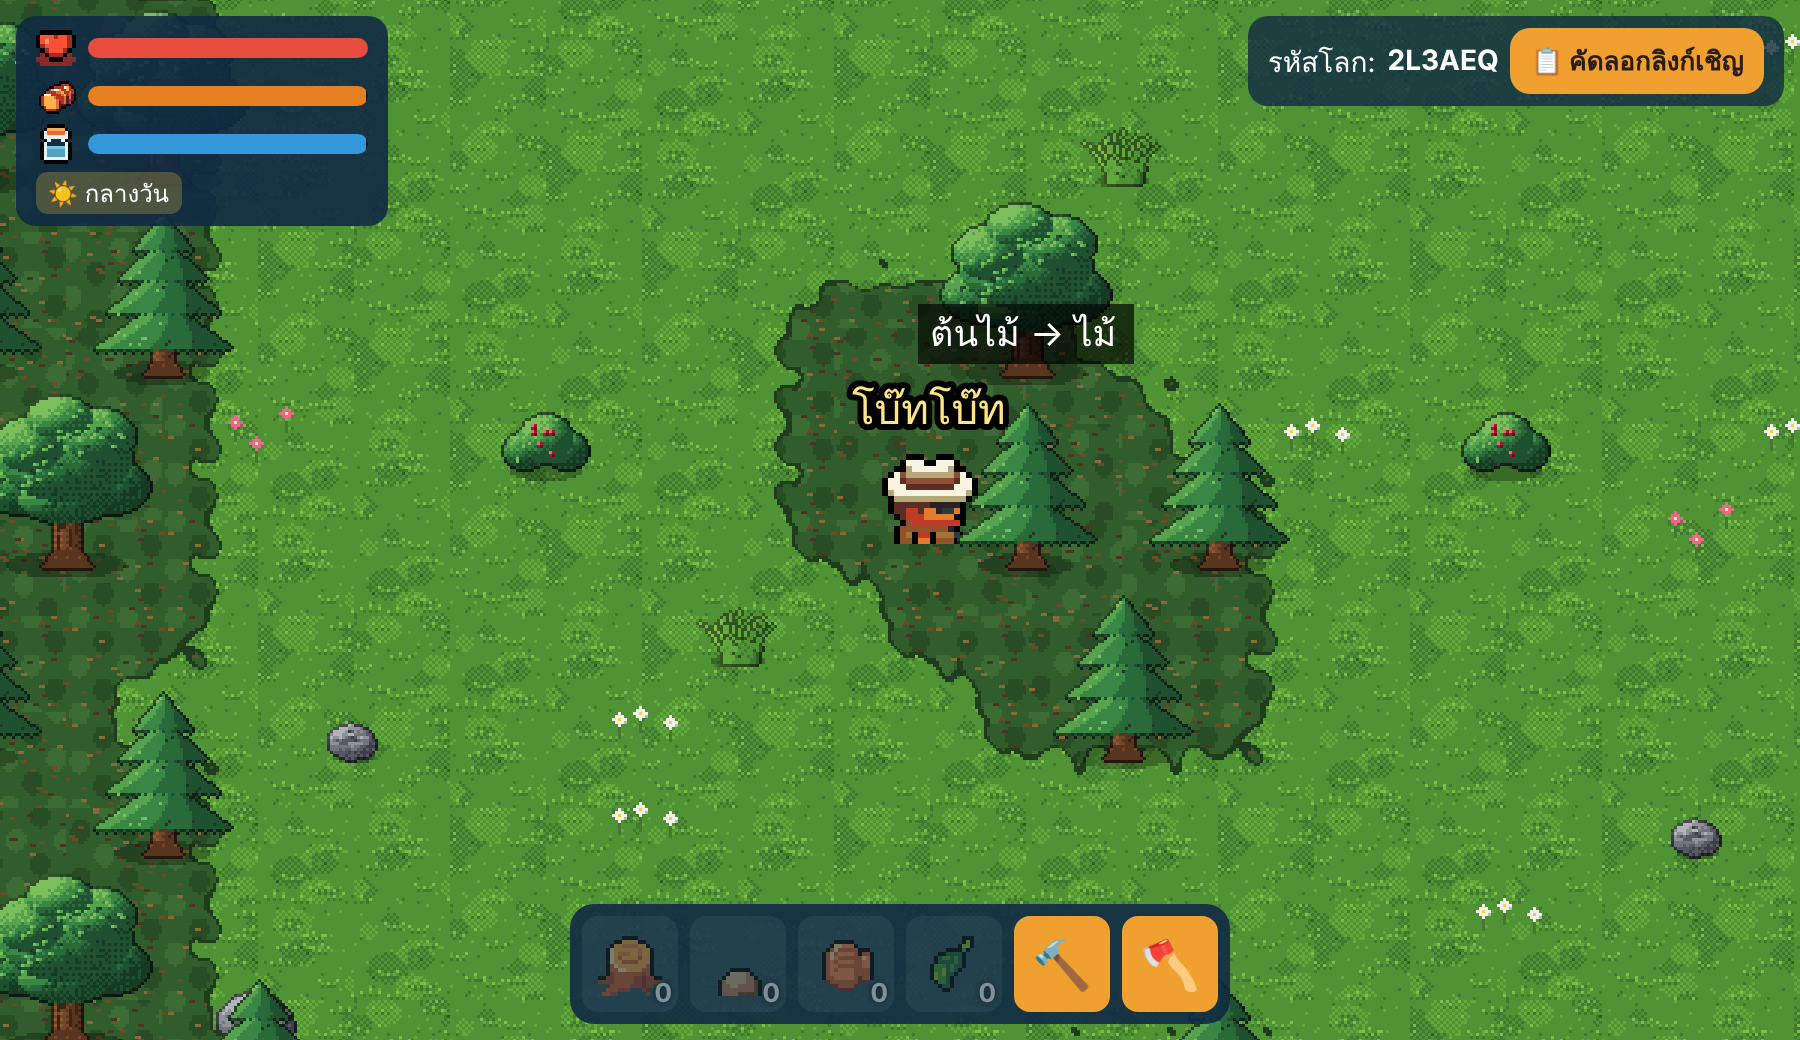
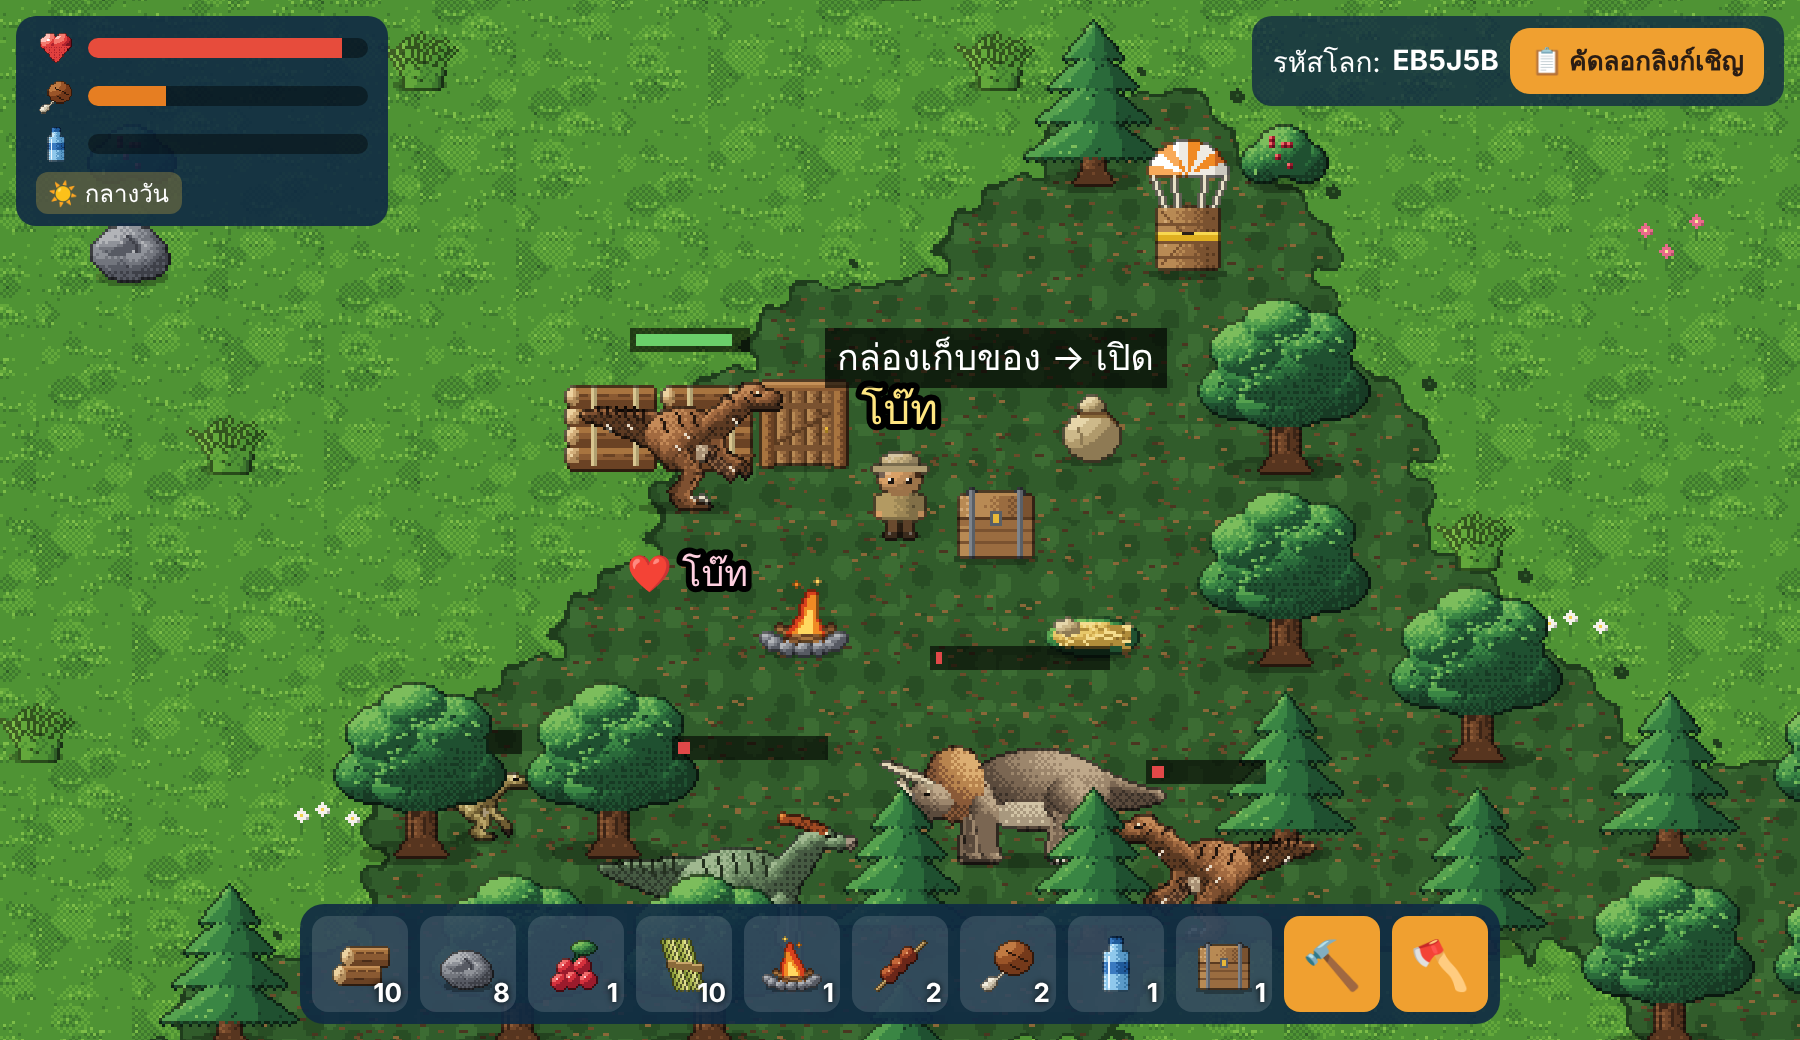
docs: M8 HD art — README screenshots and handoff summary
Claude-Session: https://claude.ai/code/session_017gvUHaCsLYKBeAsGtvm3V9

diff --git a/docs/primal-isle.md b/docs/primal-isle.md
@@ -20,7 +20,7 @@
 - Netcode: fixed timestep 20Hz + `defineInput` · client ทำนายตัวเอง (Predict) · ไดโนใช้ lerp · `stepPlayer` ต้องให้ผลเหมือนเดิมทุกบิต (มีเทสต์)
 - บันทึกโลก: JSON ต่อโลก `server/data/worlds/<รหัส>.json` (`DATA_DIR`) ผ่าน `WorldStore` · บันทึกทุก 30 วิ/ตอนห้องปิด/ตอน Ctrl+C · บันทึกต่อคิว + ตรวจโครงไฟล์ · **version 3** (อ่าน 1–2 ได้)
 - รหัสโลกถาวร 6 ตัว · token ผู้เล่นใน localStorage `primal-isle:token` · **token ห้ามอยู่ใน state ที่ซิงก์** (เจ้าของสิ่งก่อสร้าง/ไดโนเก็บฝั่งเซิร์ฟเวอร์) · กด F5 รับตัวละครเดิมคืนทันที
-- ภาพ: Pixel-boy CC0 + ภาพวาดเองด้วยตัวอักษรในโค้ด (`client/src/art/`: กองไฟ, สิ่งก่อสร้าง, ไดโน 4 ชนิด, เนื้อดิบ)
+- ภาพ: วาดด้วยโค้ดทั้งหมดใน `client/src/art/hd/` (ไม่มีไฟล์ภาพ) — เพิ่มของใหม่ = เขียนฟังก์ชันวาด + เทสต์ขนาด/ขอบ
 - ขึ้นออนไลน์: หน้าเว็บ → GitHub Pages (`.github/workflows/pages.yml`, ถูกข้ามจนกว่าจะตั้งตัวแปร `SERVER_URL` = `wss://...`) · เซิร์ฟเวอร์ → `Dockerfile` (Oracle) หรือ `render.yaml` (Render, region singapore, deploy เฉพาะเมื่อโค้ดเซิร์ฟเวอร์เปลี่ยน) · คู่มือไทย `docs/DEPLOY.md`
 
 ## สถานะ
@@ -34,15 +34,15 @@
     - server: `state.clock` · `crateSystem.ts` (ตกทุก 4 นาที สูงสุด 3 หาย 10 นาที, ไม่ตกทับสิ่งก่อสร้าง/ของตกแต่งทุกชนิด, `open {key}`) · กล่องเก็บของใน `buildingSystem.ts` (`chest {key,item,n,dir}`, `state.chests`, 12 ชนิด, รื้อไม่ได้ถ้ามีของ) · รื้อไม่ได้ถ้าของคืนจะเกิน 99 · ไฟล์บันทึก v3
     - client: ความมืด (`render/night.ts` + กติกาใน `render/dayNight.ts`) + แสงกองไฟ ADD · ชิป ☀/🌅/🌙 ใน `ui/stats.ts` · กล่องเสบียง `render/crates.ts` (ร่มแกว่ง, แจ้งเมื่อตกใหม่) · ลูกศรขอบจอ `ui/crateArrow.ts` · ข้อความ "📦 ได้ …" (`ui/loot.ts`) · หน้าต่างกล่อง `ui/chestPanel.ts` · `pickTarget(px, py, {…})` รับ object · ป้าย ❤ ใต้เท้าไดโน (`render/labelLayout.ts`) · 🪓 ข้ามกล่องที่มีของ (`demolishTarget`) · "โลกเต็มแล้ว … หรือกำลังเปิดอยู่"
 - ✅ ป้ายชื่อเป้า ✋ (merge แล้ว 2026-11-24): ป้ายเหนือสิ่งที่ปุ่ม ✋ จะทำ เช่น "ต้นไม้ → ไม้" (`client/src/ui/targetLabel.ts` + `render/targetLabel.ts`, ใช้ `WorldScene.surroundings` ชุดเดียวกับปุ่ม) · ยกป้ายขึ้นเหนือชื่อตัวเองถ้าเป้าติดตัว
-- 🚧 **ขั้นที่ 8 ภาพ 32px — branch `m8-hd-art`** (โบ๊ทเลือก "วาดใหม่ทั้งเกม 2 เท่า")
-  - ออกแบบ: `docs/superpowers/specs/2026-11-24-m8-hd-art-design.md` (ลำดับงาน 0–8, การแสดงผลตาม DPR)
-  - ✅ งาน 0: ชุดเครื่องมือวาด `client/src/art/hd/canvas.ts` (ramp + แสงซ้ายบน + dither + outline) · ตัวอย่าง `hd/nature.ts` (หญ้า ต้นไม้ 64×64 หิน พุ่มไม้) `hd/dinos.ts` (แร็พเตอร์ 48×36) · ภาพเทียบ `docs/images/m8-sample.png`
-  - ✅ โบ๊ทชอบโทนภาพใหม่ · ขอไดโนสรีระตามจริง + เพิ่มชนิด → วาดครบ 12 ชนิดจาก "โครงไดโน" `hd/dinoRig.ts` + ข้อมูล `hd/species.ts` (ภาพรวม `docs/images/m8-dinos.png`, ตารางชนิด/หลักฐานในเอกสารออกแบบ)
-    - ใหม่ 8: แกลลิไมมัส แพคิ สเตโก แองคิโล ไดโลโฟ สไปโน ทีเร็กซ์ แบรคิโอ · raptor → ยูทาห์แร็พเตอร์มีขน · duckbill → พาราซอโรโลฟัส (id เดิม)
-  - ⏭ งาน 1: ระบบแสดงผล 32px + DPR → แล้วพื้น/ต้นไม้/ตัวละคร… · กติกาไดโนชนิดใหม่ = ขั้นที่ 9
-  - วิธีทำภาพเทียบ: สคริปต์ tsx + pngjs นอก repo (วาดฉากเดียวกัน ซ้ายภาพเก่า×6 ขวาภาพใหม่×3)
+- ✅ **ขั้นที่ 8 ภาพ 32px** (branch `m8-hd-art` → merge) — โบ๊ทเลือก "วาดใหม่ทั้งเกม 2 เท่า" + ไดโนสรีระตามจริง · ไม่มีไฟล์ภาพแล้ว (Pixel-boy ลบออก)
+  - ออกแบบ: `docs/superpowers/specs/2026-11-24-m8-hd-art-design.md` (มีตารางไดโน 12 ชนิด + หลักฐานที่ใช้)
+  - แสดงผล: `client/src/display.ts` — canvas = พิกเซลจริง (Phaser scale zoom 1/dpr), ซูมกล้องเป็นจำนวนเต็มให้ 1 texel = จำนวนพิกเซลเต็ม (DPR 2 → zoom 6 เท่าเดิม), ภาพ HD วาดที่ `HD_SCALE` 0.5 · DOM ทับโลกใช้ `screenPx` · จอ DPR 1 เห็นใกล้ขึ้นนิด (1 ช่อง 64px)
+  - ภาพ (`client/src/art/hd/`): `canvas.ts` เครื่องมือ (ramp + แสงซ้ายบน + dither + outline) · `ground.ts` พื้นแบบ dual grid (4 ชั้น × 16 รูปขอบ ขอบต่อกันสนิท — มีเทสต์) · `nature.ts` ต้นไม้ 2 แบบ ตอ หิน พุ่มไม้ กอหญ้า · `dinoRig.ts` + `species.ts` ไดโน 12 ชนิด · `survivor.ts` คน 8 แบบ × 4 ทิศ × 4 ท่า · `built.ts` สิ่งก่อสร้าง กองไฟ ถุง ลัง · `icons.ts` ไอคอน 18 + หัวใจ
+  - `art/textures.ts` = ชื่อ texture + ตารางไอคอน (แทน ninjaAtlas) · BootScene วาดทุกอย่างตอนเริ่ม ~200ms (≈0.8 วิ ที่ CPU ช้า 4 เท่า)
+  - ไดโนในเกมยังเป็น 4 ชนิดเดิม (raptor → ยูทาห์แร็พเตอร์, duckbill → พาราซอโรโลฟัส ชื่อในเกมเปลี่ยน id เดิม) · อีก 8 ชนิดวาดแล้ว รอขั้นที่ 9
+  - วิธีดูภาพตัวอย่างนอกเกม: สคริปต์ tsx + pngjs (นอก repo) วาด PixelCanvas ลง PNG
 - ขึ้นออนไลน์แล้ว ✅ เซิร์ฟเวอร์ Render `wss://primal-isle-st4g.onrender.com` (ตัวแปร `SERVER_URL` ใน GitHub) · หน้าเว็บ https://bananazz27.github.io/primal-isle/ (deploy เองเมื่อ push main) · push ที่แตะ `server/` `shared/` = Render รีสตาร์ท โลกที่เปิดอยู่หาย
-- เทสต์ล่าสุด: shared 106 · server 91 · client 146 (+19 บน branch m8-hd-art)
+- เทสต์ล่าสุด: shared 106 · server 91 · client 161
 
 ## การตัดสินใจระหว่างทำขั้นที่ 7 (rulings)
 - โลกใหม่เริ่มตอนเช้า (`dayStartSec` 60)
@@ -75,7 +75,7 @@
 - ไฟล์ JS ของ client ~1.5 MB · ยังไม่ได้วัด FPS บนมือถือจริง · กด Enter ในเมนูยังไม่ทำงาน · เครื่องมือยังไม่มีความทนทาน
 
 ## ขั้นต่อไป
-1. ขั้นที่ 8 ภาพ 32px ตามลำดับในเอกสารออกแบบ (งาน 1 ระบบแสดงผล) → ขั้นที่ 9 กติกาไดโน 8 ชนิดใหม่
+1. ขั้นที่ 9: ใส่ไดโน 8 ชนิดใหม่ลงเกม (balance.json + เกิดใกล้น้ำ/เป็นฝูง + ขนาดกล่องชนตัวใหญ่ — บทบาทที่เสนออยู่ในเอกสารออกแบบขั้นที่ 8)
 2. ถ้าอยากต่อ: เซฟถาวร (ย้ายไป Oracle), ทดสอบบนมือถือจริง, ปรับสมดุล, เสียง, ระบบหาทางของไดโน
 
 ## เอกสารอื่น

diff --git a/README.md b/README.md
@@ -5,15 +5,15 @@
 
 > ชื่อเกมเป็นชื่อชั่วคราว
 
-![เพื่อนเดินบนเกาะเดียวกัน](docs/images/screenshot.png)
+![เกาะในภาพละเอียด 32px: ตัวละคร ไดโน สิ่งก่อสร้าง](docs/images/m8-ingame.png)
 
 <img src="docs/images/island.png" width="256" alt="ภาพรวมเกาะที่สร้างจาก seed">
 
-## สถานะตอนนี้ (ครบ 7 ขั้นตามแผนหลัก)
+## สถานะตอนนี้ (ครบ 7 ขั้นตามแผนหลัก + ภาพละเอียด 2 เท่า)
 
 ✅ สร้างเกาะสุ่มจาก seed · ✅ ส่งลิงก์/รหัสให้เพื่อนเข้าโลกเดียวกัน (สูงสุด 8 คน)
 ✅ เดินพร้อมกันแบบลื่น (prediction) · ✅ คีย์บอร์ด WASD และ joystick บนมือถือ · ✅ แจ้งเตือนเมื่อเน็ตหลุด
-✅ ภาพ pixel art ของ Pixel-boy (CC0): ชายฝั่งโค้ง ต้นไม้ ดอกไม้ ตัวละครมีท่าเดิน 4 ทิศ
+✅ ภาพ pixel art วาดด้วยโค้ดทั้งหมด (ดูขั้นที่ 8)
 
 ✅ ขั้นที่ 3: ตีต้นไม้/ทุบหิน/เก็บผลไม้/ถอนหญ้า (งอกใหม่ได้) · กระเป๋า · เลือด/ความอิ่ม/น้ำ · กินผลไม้ · ดื่มริมน้ำ · สลบแล้วฟื้น
 
@@ -34,7 +34,13 @@
 <img src="docs/images/m7-night.png" width="480" alt="กลางคืน กองไฟ กล่องเก็บของ ไดโนที่เทม และลูกศรชี้กล่องเสบียง">
 <img src="docs/images/m7-chest.png" width="480" alt="หน้าต่างกล่องเก็บของ: กระเป๋า ↔ กล่อง">
 
-ต่อจากนี้ (ถ้าอยากต่อ): ทดสอบบนมือถือจริง, ปรับสมดุล, เสียง, ระบบหาทางของไดโน — ดูภาพรวมใน [เอกสารออกแบบ](docs/superpowers/specs/2026-11-21-primal-isle-design.md)
+✅ ขั้นที่ 8: **ภาพละเอียด 2 เท่า (32px)** วาดด้วยโค้ดทั้งเกม คมตามความละเอียดจอ ·
+ชายฝั่งโค้งมีฟองคลื่น พื้นป่ามีใบไม้ร่วง · ต้นไม้ 2 แบบ · ตัวละครคนยุคปัจจุบัน 8 แบบ ·
+**ไดโนสรีระตามหลักฐานจริง** (ยูทาห์แร็พเตอร์มีขน, ไดโนกินเนื้อมีริมฝีปาก) · ป้ายบอกว่ากด ✋ แล้วจะเก็บอะไร
+
+<img src="docs/images/m8-dinos.png" width="560" alt="ไดโน 12 ชนิดที่วาดแล้ว (8 ชนิดใหม่รอใส่กติกาในขั้นที่ 9)">
+
+ต่อจากนี้: ขั้นที่ 9 ใส่ไดโนชนิดใหม่ 8 ชนิดลงเกม (ทีเร็กซ์ สไปโน แบรคิโอ ฯลฯ), ทดสอบบนมือถือจริง, ปรับสมดุล, เสียง — ดูภาพรวมใน [เอกสารออกแบบ](docs/superpowers/specs/2026-11-21-primal-isle-design.md)
 
 ## รันบนเครื่อง
 
